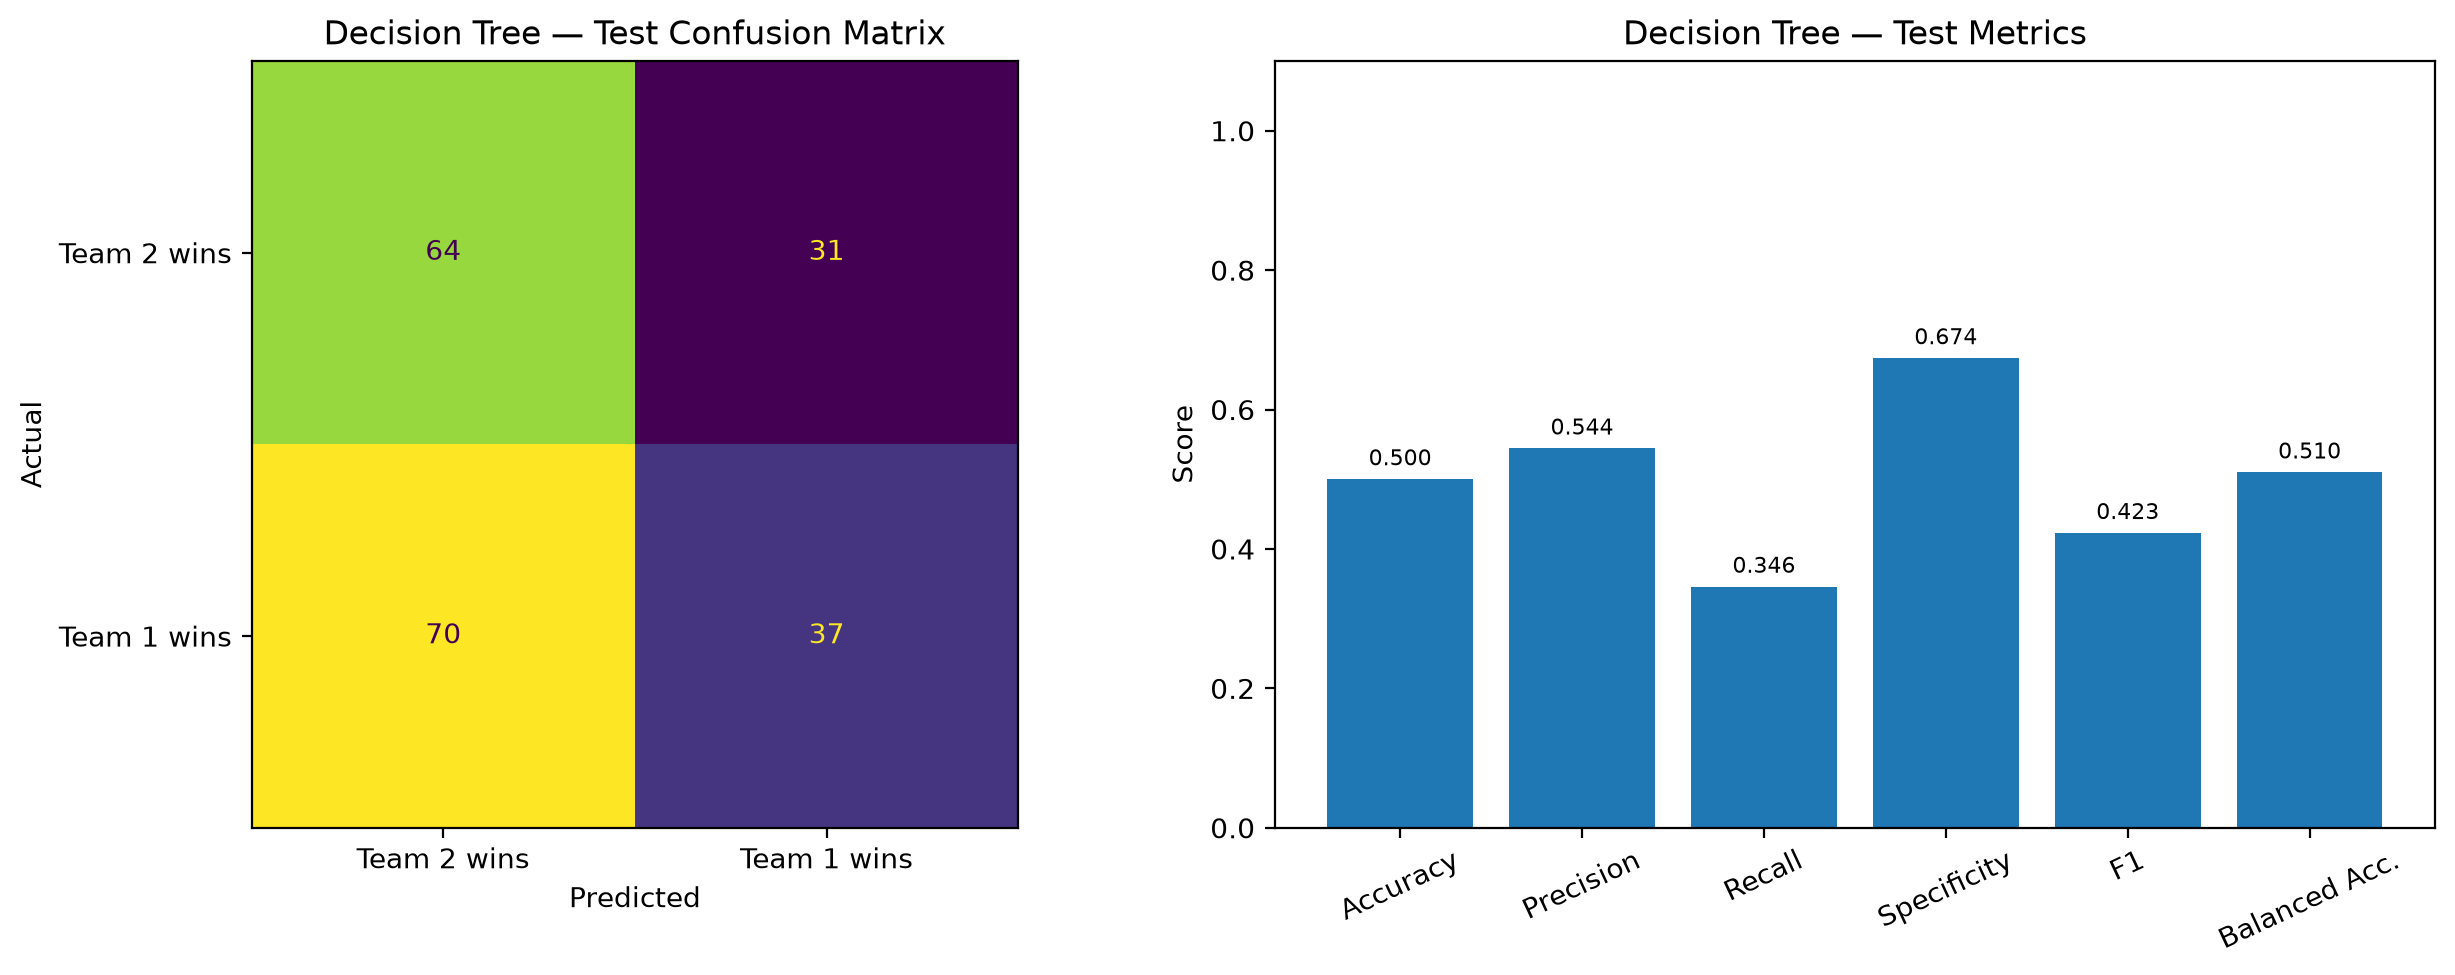
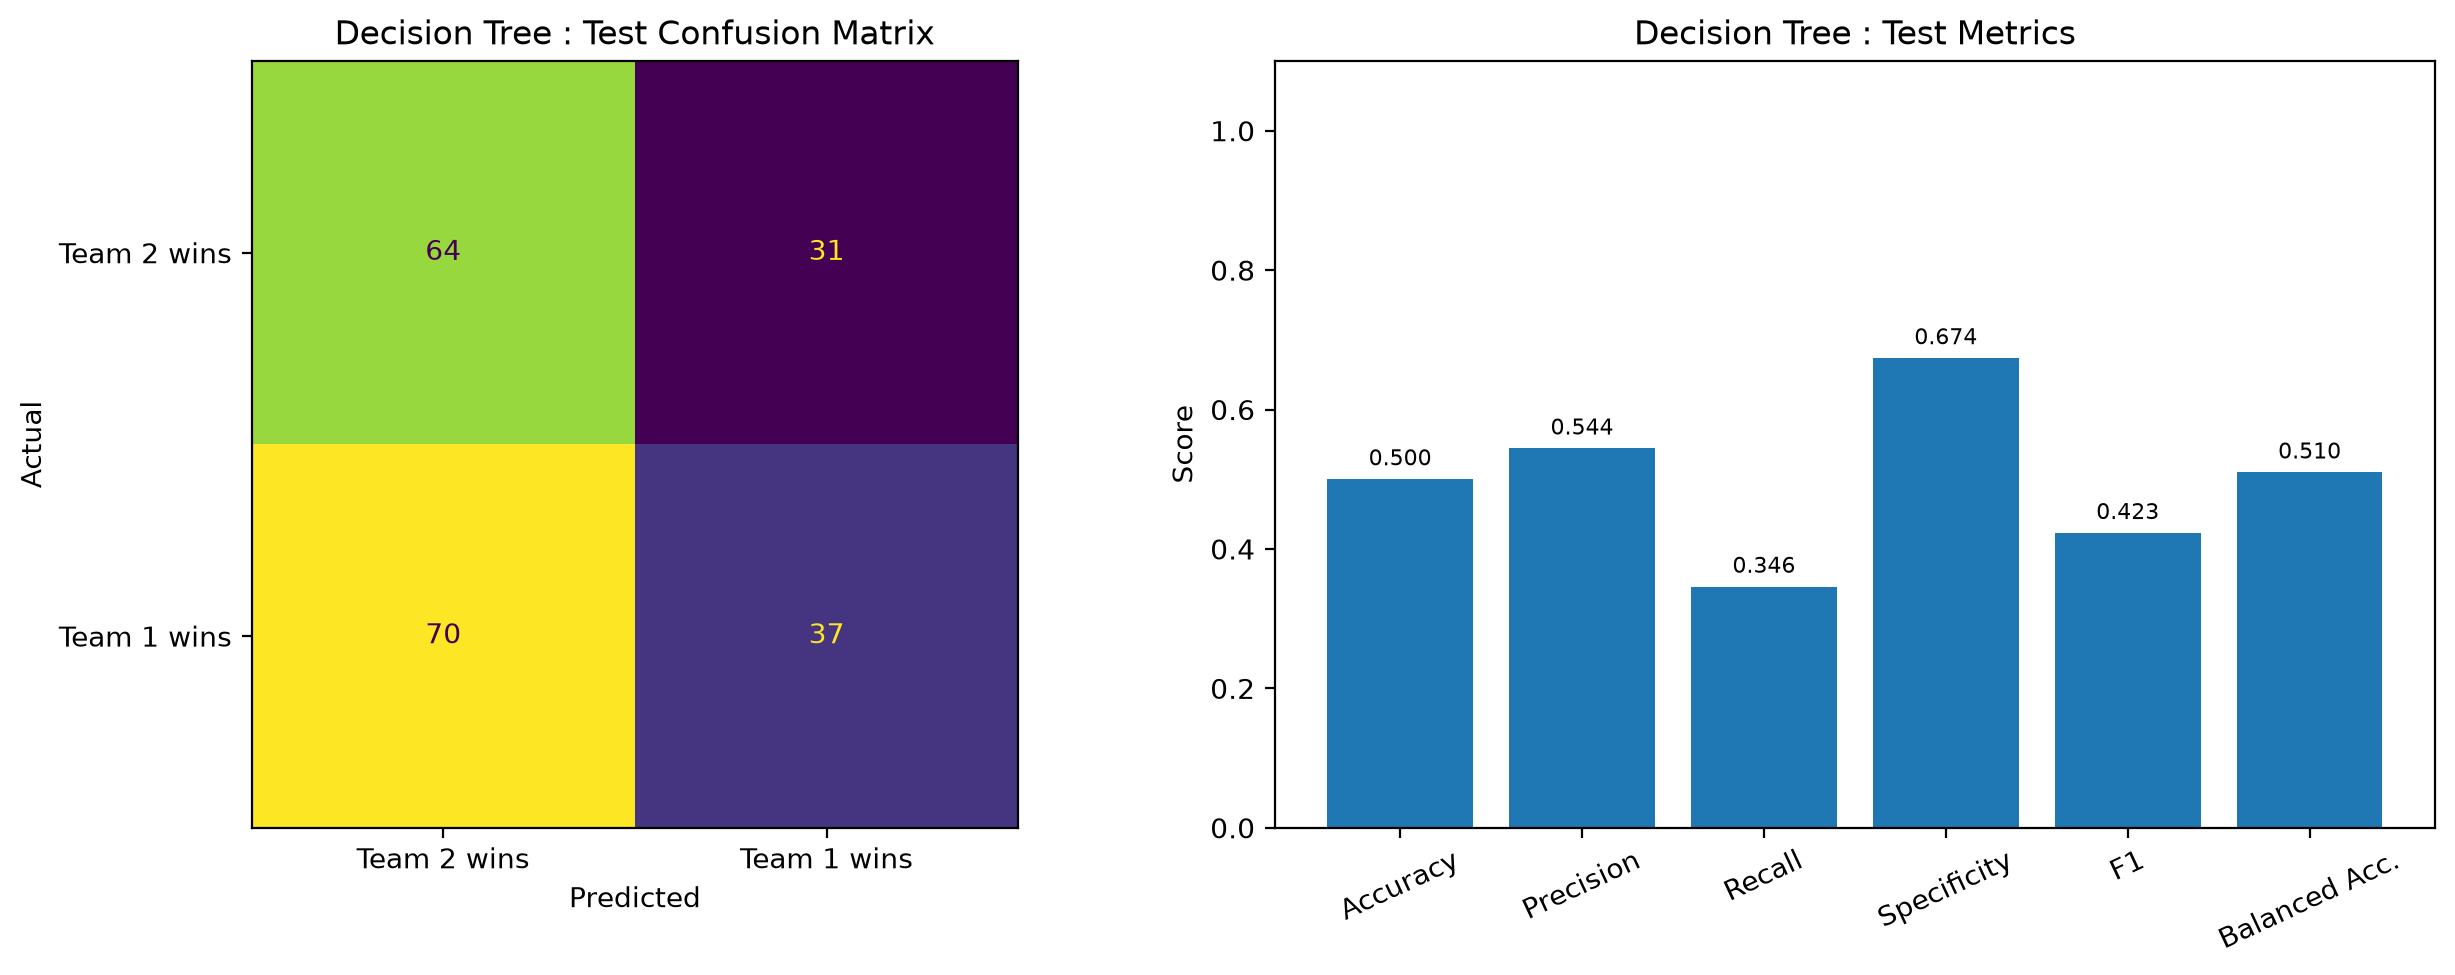
Modified the text title for the metrics png

Changed region(s): [[0.1238, 0.0, 0.4024, 0.0615], [0.6501, 0.0, 0.8668, 0.0615]]

diff --git a/model_utils.py b/model_utils.py
@@ -120,7 +120,7 @@ def save_evaluation(
         confusion_matrix=confusion_matrix(y_true, y_pred, labels=[0, 1]),
         display_labels=["Team 2 wins", "Team 1 wins"],
     ).plot(ax=axes[0], colorbar=False)
-    axes[0].set_title(f"{model_name} — Test Confusion Matrix")
+    axes[0].set_title(f"{model_name} : Test Confusion Matrix")
     axes[0].set_xlabel("Predicted")
     axes[0].set_ylabel("Actual")
 
@@ -136,7 +136,7 @@ def save_evaluation(
     bars = axes[1].bar(metric_names, values)
     axes[1].set_ylim(0, 1.1)
     axes[1].set_ylabel("Score")
-    axes[1].set_title(f"{model_name} — Test Metrics")
+    axes[1].set_title(f"{model_name} : Test Metrics")
     axes[1].tick_params(axis="x", rotation=25)
     for bar, value in zip(bars, values):
         axes[1].text(
